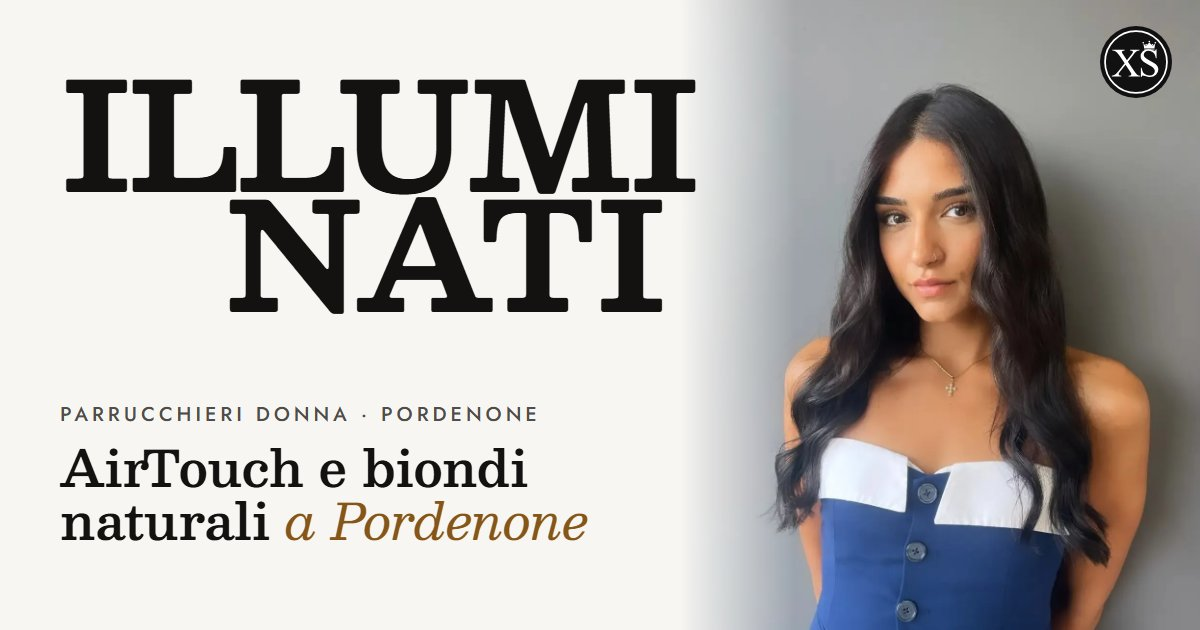
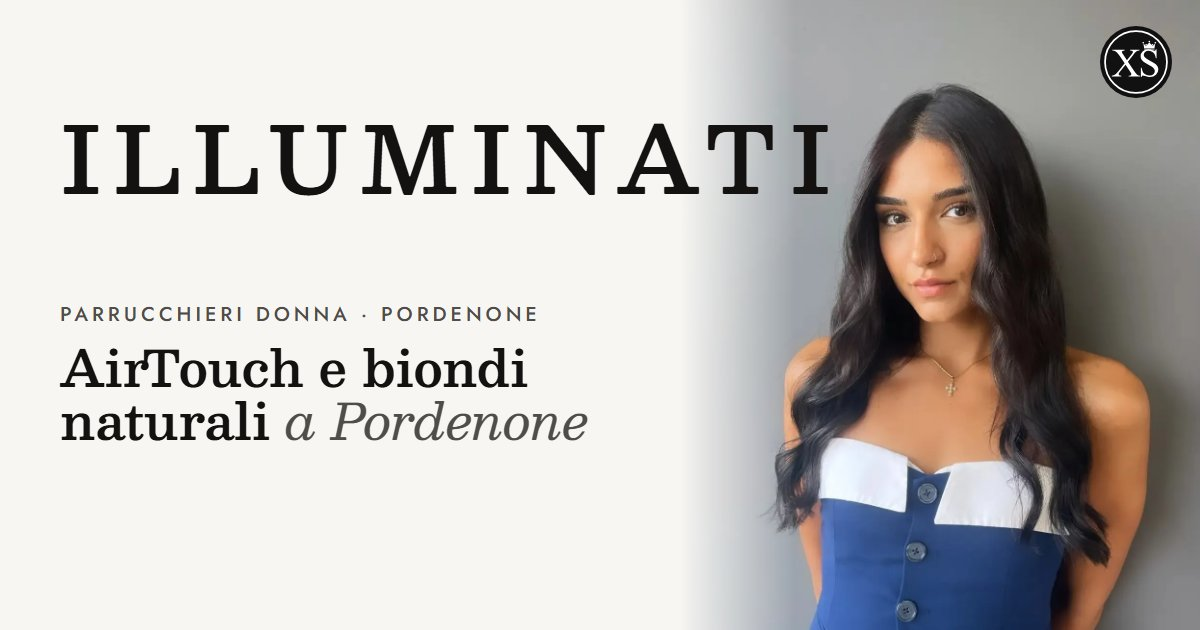
Bianco e nero, nome intero, menu chiaro, insegna ricostruita in rilievo, telefono senza tagli

Changed region(s): [[0.0308, 0.1206, 0.7092, 0.5127], [0.0308, 0.5429, 0.4933, 0.8746]]

diff --git a/css/blocks.css b/css/blocks.css
@@ -24,34 +24,34 @@
 .menu-btn:active{transform:scale(.97)}
 
 /* ---------- menu a tutto schermo ---------- */
-.menu{position:fixed;inset:0;z-index:70;background:var(--ink);color:var(--on-dark);display:grid;grid-template-rows:1fr auto;padding:96px var(--gutter) calc(24px + env(safe-area-inset-bottom));
+.menu{position:fixed;inset:0;z-index:70;background:var(--paper);color:var(--ink);display:grid;grid-template-rows:1fr auto;padding:96px var(--gutter) calc(24px + env(safe-area-inset-bottom));
   clip-path:circle(0 at calc(100% - 44px) 36px);visibility:hidden;transition:clip-path .7s var(--ease-spring),visibility 0s .7s}
 .menu.is-open{clip-path:circle(150% at calc(100% - 44px) 36px);visibility:visible;transition:clip-path .8s var(--ease-spring),visibility 0s}
 .menu nav ol{display:grid;gap:4px;align-content:center;height:100%;counter-reset:m}
 .menu nav a{display:grid;grid-template-columns:auto 1fr;align-items:baseline;gap:6px 18px;padding-block:10px;text-decoration:none;opacity:0;transform:translateY(24px);transition:opacity .5s var(--ease),transform .7s var(--ease-spring)}
 .menu.is-open nav a{opacity:1;transform:none;transition-delay:calc(.15s + var(--i) * 70ms)}
-.menu nav a::before{counter-increment:m;content:"0" counter(m);font:500 .8rem/1 var(--font-body);letter-spacing:.14em;color:var(--gold);align-self:center}
-.menu nav strong{font:600 clamp(2.6rem,12vw,5.5rem)/1 var(--font-display);letter-spacing:-.02em;transition:color .3s var(--ease),transform .5s var(--ease-spring)}
-.menu nav small{grid-column:2;font:italic 400 1rem/1.2 var(--font-display);color:var(--on-dark-2)}
-.menu nav a[aria-current="page"] strong{color:var(--gold)}
-@media (hover:hover){ .menu nav a:hover strong{color:var(--gold);transform:translateX(8px)} }
-.menu__foot{display:grid;gap:16px;border-top:1px solid hsl(40 25% 94% / .15);padding-top:20px;opacity:0;transition:opacity .5s var(--ease) .1s}
+.menu nav a::before{counter-increment:m;content:"0" counter(m);font:500 .8rem/1 var(--font-body);letter-spacing:.14em;color:var(--ink-2);align-self:center}
+.menu nav strong{font:600 clamp(2.4rem,11vw,5.5rem)/1 var(--font-display);letter-spacing:.06em;text-transform:uppercase;transition:color .3s var(--ease),transform .5s var(--ease-spring)}
+.menu nav small{grid-column:2;font:italic 400 1rem/1.2 var(--font-display);color:var(--ink-2)}
+.menu nav a[aria-current="page"] strong{text-decoration:underline;text-decoration-thickness:2px;text-underline-offset:.12em}
+@media (hover:hover){ .menu nav a:hover strong{transform:translateX(8px);font-style:italic;font-weight:400} }
+.menu__foot{display:grid;gap:16px;border-top:1px solid var(--line);padding-top:20px;opacity:0;transition:opacity .5s var(--ease) .1s}
 .menu.is-open .menu__foot{opacity:1;transition-delay:.45s}
-.menu__foot p{color:var(--on-dark-2);font-size:.95rem}
+.menu__foot p{color:var(--ink-2);font-size:.95rem}
 .menu__foot .row{display:flex;flex-wrap:wrap;gap:10px}
 body.menu-open{overflow:hidden}
 
 /* ---------- copertina (home) ---------- */
 .cover{position:relative;padding-top:0}
-.cover__photo{position:relative;height:56svh;min-height:380px;max-height:820px}
+.cover__photo{position:relative;aspect-ratio:4/5;max-height:62svh;width:100%}
 .cover__photo .lit{position:absolute;inset:0}
 .cover__photo img{object-position:50% 18%}
 .cover__photo::after{content:"";position:absolute;inset:0;pointer-events:none;background:linear-gradient(to bottom,hsl(30 8% 7% / .18),transparent 22%,transparent 58%,var(--paper) 99%)}
 .cover__note{position:absolute;z-index:2;right:14px;top:96px;writing-mode:vertical-rl;transform:rotate(180deg);font:italic 400 .95rem/1 var(--font-display);color:var(--paper);text-shadow:0 1px 12px hsl(30 8% 7% / .55)}
-.cover__body{position:relative;z-index:2;margin-top:-0.95em;font-size:clamp(3.6rem,18.6vw,13rem)}
-.mast{font:700 1em/.8 var(--font-display);letter-spacing:-.035em;text-transform:uppercase;margin-left:-.04em}
-.mast > span{display:block;white-space:nowrap}
-.mast > span:last-child{padding-left:1.1em}
+.cover__body{position:relative;z-index:2;margin-top:-.45em;font-size:40px}
+.mast{font:600 1em/.9 var(--font-display);letter-spacing:.12em;text-transform:uppercase;white-space:nowrap;margin-right:-.12em}
+.mast > span{display:inline}
+
 .cover__text{font-size:1rem;display:grid;gap:14px;padding-top:16px}
 @media (max-width:899px) and (max-height:860px){ .cover__text .lead{display:none} }
 .cover__text h1{max-width:20ch}
@@ -61,9 +61,9 @@ body.menu-open{overflow:hidden}
 .trust u{text-decoration:none;border-bottom:1px solid var(--line)}
 @media (min-width:900px){
   .cover{display:grid;grid-template-columns:1fr 46%;min-height:100svh;align-items:end}
-  .cover__photo{grid-column:2;grid-row:1;height:100svh;max-height:none}
+  .cover__photo{grid-column:2;grid-row:1;height:100svh;max-height:none;aspect-ratio:auto}
   .cover__photo::after{background:linear-gradient(to right,var(--paper) 0%,transparent 18%)}
-  .cover__body{grid-column:1 / -1;grid-row:1;align-self:end;margin:0;padding-bottom:var(--s10);font-size:clamp(6rem,12.5vw,13rem)}
+  .cover__body{grid-column:1 / -1;grid-row:1;align-self:center;margin:0;padding-top:72px}
   .cover__text{max-width:520px}
   .cover__note{right:auto;left:calc(54% + 18px)}
 }
@@ -146,7 +146,7 @@ body.menu-open{overflow:hidden}
 .gallery li{transition:opacity .4s var(--ease),transform .5s var(--ease-spring)}
 .gallery li.is-out{display:none}
 .gallery li:nth-child(4n+1){grid-column:1 / -1}
-.gallery li:nth-child(4n+1) .lit{aspect-ratio:4/5}
+.gallery li:nth-child(4n+1) .lit{aspect-ratio:3/4}
 .gallery .lit{aspect-ratio:3/4}
 @media (min-width:900px){
   .gallery{grid-template-columns:repeat(3,1fr);gap:28px 20px}
@@ -161,7 +161,7 @@ body.menu-open{overflow:hidden}
 .compare .t{position:absolute;bottom:12px;z-index:2;padding:6px 10px;border-radius:999px;background:hsl(40 22% 96% / .85);font:500 .7rem/1 var(--font-body);letter-spacing:.16em;text-transform:uppercase;pointer-events:none}
 .compare .t.b{left:12px}.compare .t.a{right:12px}
 .compare .handle{position:absolute;top:0;bottom:0;left:var(--pos,50%);width:48px;margin-left:-24px;border:0;background:transparent;display:grid;place-items:center;cursor:ew-resize;touch-action:none}
-.compare .handle::before{content:"";position:absolute;top:0;bottom:0;left:50%;width:2px;margin-left:-1px;background:hsl(42 100% 88%);box-shadow:0 0 22px 6px hsl(42 100% 70% / .6)}
+.compare .handle::before{content:"";position:absolute;top:0;bottom:0;left:50%;width:2px;margin-left:-1px;background:#fff;box-shadow:0 0 22px 6px hsl(0 0% 100% / .7)}
 .compare .handle span{position:relative;width:44px;height:44px;border-radius:50%;background:var(--paper);display:grid;place-items:center;box-shadow:0 6px 18px hsl(30 8% 7% / .35)}
 .compare .handle svg{width:22px;height:22px}
 .compare .handle:focus-visible{outline:none}.compare .handle:focus-visible span{outline:3px solid var(--focus);outline-offset:3px}
@@ -206,7 +206,7 @@ body.menu-open{overflow:hidden}
 .field input,.field select,.field textarea{width:100%;min-height:52px;padding:12px 14px;border:0;border-bottom:1.5px solid var(--ink-2);border-radius:0;background:transparent;transition:border-color .25s var(--ease),background-color .25s var(--ease)}
 .field textarea{min-height:96px;resize:vertical}
 .field select{appearance:none;-webkit-appearance:none;background-image:linear-gradient(45deg,transparent 50%,var(--ink) 50%),linear-gradient(135deg,var(--ink) 50%,transparent 50%);background-position:calc(100% - 18px) 55%,calc(100% - 12px) 55%;background-size:6px 6px;background-repeat:no-repeat}
-.field input:focus-visible,.field select:focus-visible,.field textarea:focus-visible{outline:none;border-bottom-color:var(--focus);background:hsl(40 95% 50% / .06)}
+.field input:focus-visible,.field select:focus-visible,.field textarea:focus-visible{outline:none;border-bottom-color:var(--focus);background:hsl(30 8% 7% / .04)}
 .field .err{color:var(--error);font-size:.9rem}
 .field [aria-invalid="true"]{border-bottom-color:var(--error)}
 .form .note{font-size:.88rem;color:var(--ink-2)}
@@ -216,7 +216,7 @@ body.menu-open{overflow:hidden}
 /* ---------- piede ---------- */
 .foot{background:var(--ink);color:var(--on-dark-2);padding-block:var(--s10) var(--s6);font-size:.95rem}
 .foot .wrap{display:grid;gap:var(--s4)}
-.foot .big{font:700 clamp(3rem,15vw,9rem)/.85 var(--font-display);letter-spacing:-.03em;text-transform:uppercase;color:var(--on-dark)}
+.foot .big{font:600 40px/1 var(--font-display);letter-spacing:.12em;text-transform:uppercase;color:var(--on-dark);white-space:nowrap;margin-right:-.12em}
 .foot address{font-style:normal;line-height:1.8}
 .foot a{text-decoration:none}
 @media (hover:hover){ .foot a:hover{color:var(--on-dark)} }
@@ -241,7 +241,7 @@ body.menu-open .bar{display:none}
 .cover__photo{overflow:clip}
 .cover__photo .tilt{position:absolute;inset:0;transform:perspective(1100px) rotateX(var(--rx,0deg)) rotateY(var(--ry,0deg)) translateZ(var(--tz,0px)) scale(var(--sc,1));transform-origin:50% 100%}
 .cover__photo .lit{position:absolute;inset:0}
-.cover__photo .sheen{position:absolute;inset:0;z-index:2;pointer-events:none;mix-blend-mode:soft-light;opacity:var(--so,0);background:radial-gradient(circle at var(--mx,50%) var(--my,30%),hsl(42 100% 80% / .9),transparent 45%);transition:opacity .4s var(--ease)}
+.cover__photo .sheen{position:absolute;inset:0;z-index:2;pointer-events:none;mix-blend-mode:soft-light;opacity:var(--so,0);background:radial-gradient(circle at var(--mx,50%) var(--my,30%),hsl(0 0% 100% / .6),transparent 45%);transition:opacity .4s var(--ease)}
 
 .mast .ch{display:inline-block;transform-origin:50% 100%}
 .js .mast .ch{opacity:0;transform:perspective(600px) rotateX(-92deg) translateY(.08em)}
@@ -257,6 +257,21 @@ body.menu-open .bar{display:none}
 @media (min-width:900px){ .cover__body{max-width:none;padding-inline:max(var(--gutter),calc((100vw - var(--max)) / 2 + var(--gutter)))} }
 
 .review-cta{display:grid;gap:18px;align-items:center;margin-top:var(--s6);padding-top:var(--s4);border-top:1px solid hsl(40 25% 94% / .2)}
-.big5{font:700 clamp(5rem,26vw,9rem)/.8 var(--font-display);letter-spacing:-.04em;color:transparent;-webkit-text-stroke:1.5px var(--gold);background:linear-gradient(100deg,transparent 40%,hsl(42 100% 80% / .9) 50%,transparent 60%) 120% 0/250% 100% no-repeat;-webkit-background-clip:text;background-clip:text;animation:shine 4s var(--ease) infinite 1s}
+.big5-old{font:700 clamp(5rem,26vw,9rem)/.8 var(--font-display);letter-spacing:-.04em;color:transparent;-webkit-text-stroke:1.5px var(--gold);background:linear-gradient(100deg,transparent 40%,hsl(0 0% 100% / .6) 50%,transparent 60%) 120% 0/250% 100% no-repeat;-webkit-background-clip:text;background-clip:text;animation:shine 4s var(--ease) infinite 1s}
 @keyframes shine{0%{background-position:120% 0}60%,100%{background-position:-60% 0}}
 @media (min-width:900px){ .review-cta{grid-template-columns:auto 1fr;gap:var(--s6)} }
+
+.review-cta .score-big{display:flex;align-items:baseline;gap:14px;font:600 clamp(3rem,14vw,5rem)/1 var(--font-display);letter-spacing:-.02em}
+.review-cta .score-big small{font:500 .8rem/1.3 var(--font-body);letter-spacing:.16em;text-transform:uppercase;color:var(--on-dark-2)}
+.review-cta .score-big .stars{font-size:1.1rem;color:#fff;letter-spacing:4px;display:block}
+
+/* insegna ricostruita: pannello nero, lettere in rilievo, luce che passa */
+.insegna{position:relative;overflow:hidden;display:flex;align-items:center;justify-content:center;gap:4%;padding:7% 6%;margin-bottom:var(--s6);
+  background:linear-gradient(180deg,hsl(0 0% 13%),hsl(0 0% 8%) 60%,hsl(0 0% 6%));border-radius:3px;
+  box-shadow:inset 0 1px 0 hsl(0 0% 100% / .08),0 30px 50px -30px hsl(0 0% 0% / .7)}
+.insegna::before{content:"";position:absolute;inset:0;background:repeating-linear-gradient(90deg,transparent 0 49.6%,hsl(0 0% 100% / .03) 49.6% 50%);pointer-events:none}
+.insegna__t{font:600 40px/1 var(--font-display);letter-spacing:.2em;margin-right:-.2em;text-transform:uppercase;color:hsl(0 0% 97%);white-space:nowrap;
+  text-shadow:1px 1px 0 hsl(0 0% 80%),2px 2px 0 hsl(0 0% 70%),3px 3px 0 hsl(0 0% 58%),4px 5px 2px hsl(0 0% 0% / .5),8px 12px 16px hsl(0 0% 0% / .55)}
+.insegna img{width:clamp(44px,12vw,110px);height:auto;flex:none;filter:drop-shadow(3px 4px 3px hsl(0 0% 0% / .6))}
+.insegna::after{content:"";position:absolute;top:-20%;bottom:-20%;left:-30%;width:22%;transform:skewX(-18deg);background:linear-gradient(90deg,transparent,hsl(0 0% 100% / .14),transparent);animation:sweep 6s var(--ease) infinite 1.5s;pointer-events:none}
+@keyframes sweep{0%{left:-30%}35%,100%{left:120%}}

diff --git a/index.html b/index.html
@@ -55,7 +55,7 @@
     <p data-status>Martedì–sabato 9:00–19:00</p>
     <p>Viale Venezia, 48 · Pordenone</p>
     <div class="row">
-      <a class="btn btn--light" href="https://wa.me/393278147742?text=Ciao!%20Vorrei%20prenotare%20un%20appuntamento%20da%20Illuminati%20XS." target="_blank" rel="noopener"><svg viewBox="0 0 24 24" aria-hidden="true" fill="currentColor"><path d="M12 2a10 10 0 0 0-8.6 15.1L2 22l5-1.3A10 10 0 1 0 12 2Zm0 18.2a8.2 8.2 0 0 1-4.2-1.2l-.3-.2-3 .8.8-2.9-.2-.3A8.2 8.2 0 1 1 12 20.2Zm4.5-6.1c-.2-.1-1.5-.7-1.7-.8-.2-.1-.4-.1-.6.1l-.8 1c-.1.2-.3.2-.5.1a6.7 6.7 0 0 1-3.3-2.9c-.3-.4.3-.4.7-1.3.1-.2 0-.3 0-.4l-.8-1.8c-.2-.5-.4-.4-.6-.4h-.5a1 1 0 0 0-.7.3 3 3 0 0 0-.9 2.2 5.2 5.2 0 0 0 1.1 2.7 11.8 11.8 0 0 0 4.5 4c1.7.7 2.3.8 3.2.6.5-.1 1.5-.6 1.7-1.2.2-.6.2-1.1.2-1.2-.1-.1-.3-.2-.5-.3Z"/></svg>Prenota su WhatsApp</a>
+      <a class="btn" href="https://wa.me/393278147742?text=Ciao!%20Vorrei%20prenotare%20un%20appuntamento%20da%20Illuminati%20XS." target="_blank" rel="noopener"><svg viewBox="0 0 24 24" aria-hidden="true" fill="currentColor"><path d="M12 2a10 10 0 0 0-8.6 15.1L2 22l5-1.3A10 10 0 1 0 12 2Zm0 18.2a8.2 8.2 0 0 1-4.2-1.2l-.3-.2-3 .8.8-2.9-.2-.3A8.2 8.2 0 1 1 12 20.2Zm4.5-6.1c-.2-.1-1.5-.7-1.7-.8-.2-.1-.4-.1-.6.1l-.8 1c-.1.2-.3.2-.5.1a6.7 6.7 0 0 1-3.3-2.9c-.3-.4.3-.4.7-1.3.1-.2 0-.3 0-.4l-.8-1.8c-.2-.5-.4-.4-.6-.4h-.5a1 1 0 0 0-.7.3 3 3 0 0 0-.9 2.2 5.2 5.2 0 0 0 1.1 2.7 11.8 11.8 0 0 0 4.5 4c1.7.7 2.3.8 3.2.6.5-.1 1.5-.6 1.7-1.2.2-.6.2-1.1.2-1.2-.1-.1-.3-.2-.5-.3Z"/></svg>Prenota su WhatsApp</a>
       <a class="btn btn--line" href="tel:+393278147742"><svg viewBox="0 0 24 24" aria-hidden="true" fill="none" stroke="currentColor" stroke-width="1.6"><path d="M5 4h4l2 5-2.5 1.5a11 11 0 0 0 5 5L15 13l5 2v4a2 2 0 0 1-2 2A16 16 0 0 1 3 6a2 2 0 0 1 2-2"/></svg>327 814 7742</a>
     </div>
   </div>
@@ -137,7 +137,7 @@
     <div class="wrap">
       <div class="head">
         <p class="kicker rise">Le clienti</p>
-        <h2 class="rise" id="h-voices">«Pensavo servisse <em style="color:var(--gold)">un miracolo»</em></h2>
+        <h2 class="rise" id="h-voices">«Pensavo servisse <em style="color:var(--on-dark-2)">un miracolo»</em></h2>
         <p class="score rise"><span class="stars" aria-hidden="true">★★★★★</span>5,0 su Google · 10 recensioni</p>
       </div>
       <div data-carousel role="region" aria-roledescription="carosello" aria-label="Recensioni Google">
@@ -160,11 +160,11 @@
       </div>
       </div>
       <div class="review-cta rise">
-        <p class="big5" aria-hidden="true">5,0</p>
+        <p class="score-big"><span>5,0</span><small><span class="stars" aria-hidden="true">★★★★★</span>su Google<br>10 recensioni</small></p>
         <div>
           <p class="lead">Sei già stata da noi? La tua recensione aiuta chi cerca il suo colore a Pordenone.</p>
           <div class="actions" style="margin-top:16px">
-            <a class="btn btn--gold" href="https://www.google.com/maps/place//data=!4m3!3m2!1s0x47797b39ec83967b:0x76531a4e19f5794d!12e1" target="_blank" rel="noopener"><span class="stars" aria-hidden="true">★</span>Scrivi una recensione su Google</a>
+            <a class="btn btn--light" href="https://www.google.com/maps/place//data=!4m3!3m2!1s0x47797b39ec83967b:0x76531a4e19f5794d!12e1" target="_blank" rel="noopener">Scrivi una recensione su Google</a>
             <a class="link" href="https://www.google.com/maps/search/?api=1&amp;query=Illuminati+XS+Parrucchieri+Viale+Venezia+48+Pordenone" target="_blank" rel="noopener"><span>Leggi tutte le recensioni</span><svg viewBox="0 0 24 24" fill="none" stroke="currentColor" stroke-width="1.6" aria-hidden="true"><path d="M5 12h14M13 6l6 6-6 6"/></svg></a>
           </div>
         </div>
@@ -174,7 +174,7 @@
 
   <section class="sec--lg visit" aria-labelledby="h-visit">
     <div class="wrap">
-      <img class="sign rise" src="img/insegna-1200.webp" width="1200" height="226" loading="lazy" decoding="async" alt="L'insegna Illuminati XS sopra la vetrina in viale Venezia 48">
+      <div class="insegna rise" role="img" aria-label="L'insegna Illuminati XS di viale Venezia 48"><span class="insegna__t">Illuminati</span><img src="img/logo-xs-linea-bianca.svg" width="80" height="80" alt=""></div>
       <div class="grid">
         <div style="display:grid;gap:18px">
           <p class="kicker rise">Vieni in salone</p>

diff --git a/css/base.css b/css/base.css
@@ -15,9 +15,9 @@
   --wall:hsl(214 9% 20%);       /* antracite delle pareti */
   --on-dark:hsl(40 25% 94%);
   --on-dark-2:hsl(40 8% 74%);
-  --gold:hsl(40 78% 60%);       /* la luce: fascio, stelle su scuro */
-  --gold-ink:hsl(34 70% 31%);   /* oro leggibile su carta (6:1) */
-  --focus:hsl(40 95% 50%);
+  --gold:hsl(0 0% 100%);        /* la luce: bianca, come il logo */
+  --gold-ink:hsl(30 5% 30%);    /* accento su carta = grigio inchiostro */
+  --focus:hsl(30 8% 7%);
   --error:hsl(4 70% 42%);
   --success:hsl(150 45% 28%);
 
@@ -67,7 +67,7 @@ ul,ol{margin:0;padding:0;list-style:none}
 .btn{display:inline-flex;align-items:center;justify-content:center;gap:10px;min-height:52px;padding:14px 26px;border-radius:999px;border:0;cursor:pointer;text-decoration:none;font-weight:500;letter-spacing:.01em;background:var(--ink);color:var(--paper);transition:transform .25s var(--ease),background-color .25s var(--ease),box-shadow .35s var(--ease);-webkit-tap-highlight-color:transparent;position:relative;overflow:hidden;isolation:isolate}
 .btn svg{width:20px;height:20px;flex:none}
 .btn::after{ /* la luce che passa sul bottone */
-  content:"";position:absolute;inset:-20% auto -20% -40%;width:30%;transform:skewX(-18deg) translateX(-120%);background:linear-gradient(90deg,transparent,hsl(40 90% 75% / .55),transparent);z-index:-1;transition:transform .7s var(--ease-spring)}
+  content:"";position:absolute;inset:-20% auto -20% -40%;width:30%;transform:skewX(-18deg) translateX(-120%);background:linear-gradient(90deg,transparent,hsl(0 0% 100% / .45),transparent);z-index:-1;transition:transform .7s var(--ease-spring)}
 @media (hover:hover){ .btn:hover{box-shadow:0 14px 30px -14px hsl(30 8% 7% / .6)} .btn:hover::after{transform:skewX(-18deg) translateX(520%)} }
 .btn:active{transform:translateY(1px) scale(.99)}
 .btn--light{background:var(--paper);color:var(--ink)}
@@ -82,15 +82,15 @@ ul,ol{margin:0;padding:0;list-style:none}
 @media (hover:hover){ .link:hover svg{transform:translateX(4px)} .link:hover span{background-size:30% 1px} }
 .dark .link{color:var(--on-dark)}
 
-.stars{color:var(--gold-ink);letter-spacing:2px}
+.stars{color:var(--ink);letter-spacing:2px}
 .dark .stars{color:var(--gold)}
 
 /* sezioni: salti 48 / 80 / 128 */
 .sec{padding-block:var(--s10)}
 .sec--lg{padding-block:var(--s16)}
 @media (max-width:899px){ .sec--lg{padding-block:var(--s10)} }
-.dark{background:radial-gradient(120% 80% at 0% 0%,hsl(36 30% 14%),transparent 60%),var(--ink);color:var(--on-dark)}
-.dark :focus-visible{outline-color:var(--gold)}
+.dark{background:var(--ink);color:var(--on-dark)}
+.dark :focus-visible{outline-color:#fff}
 
 /* ingressi */
 .rise{opacity:0;transform:translateY(22px);transition:opacity .7s var(--ease-spring),transform .7s var(--ease-spring);transition-delay:calc(var(--i,0) * 70ms)}
@@ -106,7 +106,7 @@ ul,ol{margin:0;padding:0;list-style:none}
 .lit .bw{filter:grayscale(1) contrast(1.06) brightness(.97)}
 .lit .col{position:absolute;inset:0;clip-path:polygon(0 0,calc(var(--x) + 22%) 0,var(--x) 100%,0 100%)}
 .lit .beam{position:absolute;top:-10%;bottom:-10%;left:calc(var(--x) + 11% - 40px);width:80px;pointer-events:none;
-  background:linear-gradient(90deg,transparent,hsl(42 100% 82% / .75) 45%,hsl(42 100% 92% / .9) 50%,hsl(42 100% 82% / .75) 55%,transparent);
+  background:linear-gradient(90deg,transparent,hsl(0 0% 100% / .7) 45%,hsl(0 0% 100% / .95) 50%,hsl(0 0% 100% / .7) 55%,transparent);
   transform:skewX(-12.4deg);mix-blend-mode:screen;filter:blur(5px);opacity:0;transition:opacity .4s var(--ease)}
 .lit.is-lighting .beam{opacity:1}
 .lit.is-lit{--x:130%}

diff --git a/lavori.html b/lavori.html
@@ -54,7 +54,7 @@
     <p data-status>Martedì–sabato 9:00–19:00</p>
     <p>Viale Venezia, 48 · Pordenone</p>
     <div class="row">
-      <a class="btn btn--light" href="https://wa.me/393278147742?text=Ciao!%20Vorrei%20prenotare%20un%20appuntamento%20da%20Illuminati%20XS." target="_blank" rel="noopener"><svg viewBox="0 0 24 24" aria-hidden="true" fill="currentColor"><path d="M12 2a10 10 0 0 0-8.6 15.1L2 22l5-1.3A10 10 0 1 0 12 2Zm0 18.2a8.2 8.2 0 0 1-4.2-1.2l-.3-.2-3 .8.8-2.9-.2-.3A8.2 8.2 0 1 1 12 20.2Zm4.5-6.1c-.2-.1-1.5-.7-1.7-.8-.2-.1-.4-.1-.6.1l-.8 1c-.1.2-.3.2-.5.1a6.7 6.7 0 0 1-3.3-2.9c-.3-.4.3-.4.7-1.3.1-.2 0-.3 0-.4l-.8-1.8c-.2-.5-.4-.4-.6-.4h-.5a1 1 0 0 0-.7.3 3 3 0 0 0-.9 2.2 5.2 5.2 0 0 0 1.1 2.7 11.8 11.8 0 0 0 4.5 4c1.7.7 2.3.8 3.2.6.5-.1 1.5-.6 1.7-1.2.2-.6.2-1.1.2-1.2-.1-.1-.3-.2-.5-.3Z"/></svg>Prenota su WhatsApp</a>
+      <a class="btn" href="https://wa.me/393278147742?text=Ciao!%20Vorrei%20prenotare%20un%20appuntamento%20da%20Illuminati%20XS." target="_blank" rel="noopener"><svg viewBox="0 0 24 24" aria-hidden="true" fill="currentColor"><path d="M12 2a10 10 0 0 0-8.6 15.1L2 22l5-1.3A10 10 0 1 0 12 2Zm0 18.2a8.2 8.2 0 0 1-4.2-1.2l-.3-.2-3 .8.8-2.9-.2-.3A8.2 8.2 0 1 1 12 20.2Zm4.5-6.1c-.2-.1-1.5-.7-1.7-.8-.2-.1-.4-.1-.6.1l-.8 1c-.1.2-.3.2-.5.1a6.7 6.7 0 0 1-3.3-2.9c-.3-.4.3-.4.7-1.3.1-.2 0-.3 0-.4l-.8-1.8c-.2-.5-.4-.4-.6-.4h-.5a1 1 0 0 0-.7.3 3 3 0 0 0-.9 2.2 5.2 5.2 0 0 0 1.1 2.7 11.8 11.8 0 0 0 4.5 4c1.7.7 2.3.8 3.2.6.5-.1 1.5-.6 1.7-1.2.2-.6.2-1.1.2-1.2-.1-.1-.3-.2-.5-.3Z"/></svg>Prenota su WhatsApp</a>
       <a class="btn btn--line" href="tel:+393278147742"><svg viewBox="0 0 24 24" aria-hidden="true" fill="none" stroke="currentColor" stroke-width="1.6"><path d="M5 4h4l2 5-2.5 1.5a11 11 0 0 0 5 5L15 13l5 2v4a2 2 0 0 1-2 2A16 16 0 0 1 3 6a2 2 0 0 1 2-2"/></svg>327 814 7742</a>
     </div>
   </div>
@@ -96,7 +96,7 @@
     <div class="wrap compare-wrap">
       <div style="display:grid;gap:18px">
         <p class="kicker">Prima e dopo</p>
-        <h2 id="h-pd">Trascina <em style="color:var(--gold)">la linea di luce</em></h2>
+        <h2 id="h-pd">Trascina <em style="color:var(--on-dark-2)">la linea di luce</em></h2>
         <p class="lead">Dalla ricrescita scura alle baby highlights platino: lo stesso lavoro, prima e dopo il salone.</p>
         <div><a class="btn btn--light" href="https://wa.me/393278147742?text=Ciao!%20Vi%20mando%20una%20foto%20del%20colore%20che%20vorrei." target="_blank" rel="noopener"><svg viewBox="0 0 24 24" aria-hidden="true" fill="currentColor"><path d="M12 2a10 10 0 0 0-8.6 15.1L2 22l5-1.3A10 10 0 1 0 12 2Zm0 18.2a8.2 8.2 0 0 1-4.2-1.2l-.3-.2-3 .8.8-2.9-.2-.3A8.2 8.2 0 1 1 12 20.2Zm4.5-6.1c-.2-.1-1.5-.7-1.7-.8-.2-.1-.4-.1-.6.1l-.8 1c-.1.2-.3.2-.5.1a6.7 6.7 0 0 1-3.3-2.9c-.3-.4.3-.4.7-1.3.1-.2 0-.3 0-.4l-.8-1.8c-.2-.5-.4-.4-.6-.4h-.5a1 1 0 0 0-.7.3 3 3 0 0 0-.9 2.2 5.2 5.2 0 0 0 1.1 2.7 11.8 11.8 0 0 0 4.5 4c1.7.7 2.3.8 3.2.6.5-.1 1.5-.6 1.7-1.2.2-.6.2-1.1.2-1.2-.1-.1-.3-.2-.5-.3Z"/></svg>Mandaci la foto dei tuoi capelli</a></div>
       </div>

diff --git a/servizi.html b/servizi.html
@@ -55,7 +55,7 @@
     <p data-status>Martedì–sabato 9:00–19:00</p>
     <p>Viale Venezia, 48 · Pordenone</p>
     <div class="row">
-      <a class="btn btn--light" href="https://wa.me/393278147742?text=Ciao!%20Vorrei%20prenotare%20un%20appuntamento%20da%20Illuminati%20XS." target="_blank" rel="noopener"><svg viewBox="0 0 24 24" aria-hidden="true" fill="currentColor"><path d="M12 2a10 10 0 0 0-8.6 15.1L2 22l5-1.3A10 10 0 1 0 12 2Zm0 18.2a8.2 8.2 0 0 1-4.2-1.2l-.3-.2-3 .8.8-2.9-.2-.3A8.2 8.2 0 1 1 12 20.2Zm4.5-6.1c-.2-.1-1.5-.7-1.7-.8-.2-.1-.4-.1-.6.1l-.8 1c-.1.2-.3.2-.5.1a6.7 6.7 0 0 1-3.3-2.9c-.3-.4.3-.4.7-1.3.1-.2 0-.3 0-.4l-.8-1.8c-.2-.5-.4-.4-.6-.4h-.5a1 1 0 0 0-.7.3 3 3 0 0 0-.9 2.2 5.2 5.2 0 0 0 1.1 2.7 11.8 11.8 0 0 0 4.5 4c1.7.7 2.3.8 3.2.6.5-.1 1.5-.6 1.7-1.2.2-.6.2-1.1.2-1.2-.1-.1-.3-.2-.5-.3Z"/></svg>Prenota su WhatsApp</a>
+      <a class="btn" href="https://wa.me/393278147742?text=Ciao!%20Vorrei%20prenotare%20un%20appuntamento%20da%20Illuminati%20XS." target="_blank" rel="noopener"><svg viewBox="0 0 24 24" aria-hidden="true" fill="currentColor"><path d="M12 2a10 10 0 0 0-8.6 15.1L2 22l5-1.3A10 10 0 1 0 12 2Zm0 18.2a8.2 8.2 0 0 1-4.2-1.2l-.3-.2-3 .8.8-2.9-.2-.3A8.2 8.2 0 1 1 12 20.2Zm4.5-6.1c-.2-.1-1.5-.7-1.7-.8-.2-.1-.4-.1-.6.1l-.8 1c-.1.2-.3.2-.5.1a6.7 6.7 0 0 1-3.3-2.9c-.3-.4.3-.4.7-1.3.1-.2 0-.3 0-.4l-.8-1.8c-.2-.5-.4-.4-.6-.4h-.5a1 1 0 0 0-.7.3 3 3 0 0 0-.9 2.2 5.2 5.2 0 0 0 1.1 2.7 11.8 11.8 0 0 0 4.5 4c1.7.7 2.3.8 3.2.6.5-.1 1.5-.6 1.7-1.2.2-.6.2-1.1.2-1.2-.1-.1-.3-.2-.5-.3Z"/></svg>Prenota su WhatsApp</a>
       <a class="btn btn--line" href="tel:+393278147742"><svg viewBox="0 0 24 24" aria-hidden="true" fill="none" stroke="currentColor" stroke-width="1.6"><path d="M5 4h4l2 5-2.5 1.5a11 11 0 0 0 5 5L15 13l5 2v4a2 2 0 0 1-2 2A16 16 0 0 1 3 6a2 2 0 0 1 2-2"/></svg>327 814 7742</a>
     </div>
   </div>
@@ -107,7 +107,7 @@
     <div class="wrap" style="display:grid;gap:28px">
       <div style="display:grid;gap:14px">
         <p class="kicker">Domande frequenti</p>
-        <h2 id="h-faq">Domande <em style="color:var(--gold)">sull'AirTouch</em></h2>
+        <h2 id="h-faq">Domande <em style="color:var(--on-dark-2)">sull'AirTouch</em></h2>
       </div>
       <div class="faq">
         <details><summary>Che differenza c'è tra AirTouch e balayage?</summary><p>Nel balayage le schiariture si sfumano a mano sulle ciocche. Nell'AirTouch prima si usa l'aria del phon per separare i capelli più sottili, e si schiariscono solo quelli: il passaggio dalla radice è ancora più morbido.</p></details>

diff --git a/404.html b/404.html
@@ -55,7 +55,7 @@
     <p data-status>Martedì–sabato 9:00–19:00</p>
     <p>Viale Venezia, 48 · Pordenone</p>
     <div class="row">
-      <a class="btn btn--light" href="https://wa.me/393278147742?text=Ciao!%20Vorrei%20prenotare%20un%20appuntamento%20da%20Illuminati%20XS." target="_blank" rel="noopener"><svg viewBox="0 0 24 24" aria-hidden="true" fill="currentColor"><path d="M12 2a10 10 0 0 0-8.6 15.1L2 22l5-1.3A10 10 0 1 0 12 2Zm0 18.2a8.2 8.2 0 0 1-4.2-1.2l-.3-.2-3 .8.8-2.9-.2-.3A8.2 8.2 0 1 1 12 20.2Zm4.5-6.1c-.2-.1-1.5-.7-1.7-.8-.2-.1-.4-.1-.6.1l-.8 1c-.1.2-.3.2-.5.1a6.7 6.7 0 0 1-3.3-2.9c-.3-.4.3-.4.7-1.3.1-.2 0-.3 0-.4l-.8-1.8c-.2-.5-.4-.4-.6-.4h-.5a1 1 0 0 0-.7.3 3 3 0 0 0-.9 2.2 5.2 5.2 0 0 0 1.1 2.7 11.8 11.8 0 0 0 4.5 4c1.7.7 2.3.8 3.2.6.5-.1 1.5-.6 1.7-1.2.2-.6.2-1.1.2-1.2-.1-.1-.3-.2-.5-.3Z"/></svg>Prenota su WhatsApp</a>
+      <a class="btn" href="https://wa.me/393278147742?text=Ciao!%20Vorrei%20prenotare%20un%20appuntamento%20da%20Illuminati%20XS." target="_blank" rel="noopener"><svg viewBox="0 0 24 24" aria-hidden="true" fill="currentColor"><path d="M12 2a10 10 0 0 0-8.6 15.1L2 22l5-1.3A10 10 0 1 0 12 2Zm0 18.2a8.2 8.2 0 0 1-4.2-1.2l-.3-.2-3 .8.8-2.9-.2-.3A8.2 8.2 0 1 1 12 20.2Zm4.5-6.1c-.2-.1-1.5-.7-1.7-.8-.2-.1-.4-.1-.6.1l-.8 1c-.1.2-.3.2-.5.1a6.7 6.7 0 0 1-3.3-2.9c-.3-.4.3-.4.7-1.3.1-.2 0-.3 0-.4l-.8-1.8c-.2-.5-.4-.4-.6-.4h-.5a1 1 0 0 0-.7.3 3 3 0 0 0-.9 2.2 5.2 5.2 0 0 0 1.1 2.7 11.8 11.8 0 0 0 4.5 4c1.7.7 2.3.8 3.2.6.5-.1 1.5-.6 1.7-1.2.2-.6.2-1.1.2-1.2-.1-.1-.3-.2-.5-.3Z"/></svg>Prenota su WhatsApp</a>
       <a class="btn btn--line" href="tel:+393278147742"><svg viewBox="0 0 24 24" aria-hidden="true" fill="none" stroke="currentColor" stroke-width="1.6"><path d="M5 4h4l2 5-2.5 1.5a11 11 0 0 0 5 5L15 13l5 2v4a2 2 0 0 1-2 2A16 16 0 0 1 3 6a2 2 0 0 1 2-2"/></svg>327 814 7742</a>
     </div>
   </div>

diff --git a/contatti.html b/contatti.html
@@ -54,7 +54,7 @@
     <p data-status>Martedì–sabato 9:00–19:00</p>
     <p>Viale Venezia, 48 · Pordenone</p>
     <div class="row">
-      <a class="btn btn--light" href="https://wa.me/393278147742?text=Ciao!%20Vorrei%20prenotare%20un%20appuntamento%20da%20Illuminati%20XS." target="_blank" rel="noopener"><svg viewBox="0 0 24 24" aria-hidden="true" fill="currentColor"><path d="M12 2a10 10 0 0 0-8.6 15.1L2 22l5-1.3A10 10 0 1 0 12 2Zm0 18.2a8.2 8.2 0 0 1-4.2-1.2l-.3-.2-3 .8.8-2.9-.2-.3A8.2 8.2 0 1 1 12 20.2Zm4.5-6.1c-.2-.1-1.5-.7-1.7-.8-.2-.1-.4-.1-.6.1l-.8 1c-.1.2-.3.2-.5.1a6.7 6.7 0 0 1-3.3-2.9c-.3-.4.3-.4.7-1.3.1-.2 0-.3 0-.4l-.8-1.8c-.2-.5-.4-.4-.6-.4h-.5a1 1 0 0 0-.7.3 3 3 0 0 0-.9 2.2 5.2 5.2 0 0 0 1.1 2.7 11.8 11.8 0 0 0 4.5 4c1.7.7 2.3.8 3.2.6.5-.1 1.5-.6 1.7-1.2.2-.6.2-1.1.2-1.2-.1-.1-.3-.2-.5-.3Z"/></svg>Prenota su WhatsApp</a>
+      <a class="btn" href="https://wa.me/393278147742?text=Ciao!%20Vorrei%20prenotare%20un%20appuntamento%20da%20Illuminati%20XS." target="_blank" rel="noopener"><svg viewBox="0 0 24 24" aria-hidden="true" fill="currentColor"><path d="M12 2a10 10 0 0 0-8.6 15.1L2 22l5-1.3A10 10 0 1 0 12 2Zm0 18.2a8.2 8.2 0 0 1-4.2-1.2l-.3-.2-3 .8.8-2.9-.2-.3A8.2 8.2 0 1 1 12 20.2Zm4.5-6.1c-.2-.1-1.5-.7-1.7-.8-.2-.1-.4-.1-.6.1l-.8 1c-.1.2-.3.2-.5.1a6.7 6.7 0 0 1-3.3-2.9c-.3-.4.3-.4.7-1.3.1-.2 0-.3 0-.4l-.8-1.8c-.2-.5-.4-.4-.6-.4h-.5a1 1 0 0 0-.7.3 3 3 0 0 0-.9 2.2 5.2 5.2 0 0 0 1.1 2.7 11.8 11.8 0 0 0 4.5 4c1.7.7 2.3.8 3.2.6.5-.1 1.5-.6 1.7-1.2.2-.6.2-1.1.2-1.2-.1-.1-.3-.2-.5-.3Z"/></svg>Prenota su WhatsApp</a>
       <a class="btn btn--line" href="tel:+393278147742"><svg viewBox="0 0 24 24" aria-hidden="true" fill="none" stroke="currentColor" stroke-width="1.6"><path d="M5 4h4l2 5-2.5 1.5a11 11 0 0 0 5 5L15 13l5 2v4a2 2 0 0 1-2 2A16 16 0 0 1 3 6a2 2 0 0 1 2-2"/></svg>327 814 7742</a>
     </div>
   </div>

diff --git a/privacy.html b/privacy.html
@@ -54,7 +54,7 @@
     <p data-status>Martedì–sabato 9:00–19:00</p>
     <p>Viale Venezia, 48 · Pordenone</p>
     <div class="row">
-      <a class="btn btn--light" href="https://wa.me/393278147742?text=Ciao!%20Vorrei%20prenotare%20un%20appuntamento%20da%20Illuminati%20XS." target="_blank" rel="noopener"><svg viewBox="0 0 24 24" aria-hidden="true" fill="currentColor"><path d="M12 2a10 10 0 0 0-8.6 15.1L2 22l5-1.3A10 10 0 1 0 12 2Zm0 18.2a8.2 8.2 0 0 1-4.2-1.2l-.3-.2-3 .8.8-2.9-.2-.3A8.2 8.2 0 1 1 12 20.2Zm4.5-6.1c-.2-.1-1.5-.7-1.7-.8-.2-.1-.4-.1-.6.1l-.8 1c-.1.2-.3.2-.5.1a6.7 6.7 0 0 1-3.3-2.9c-.3-.4.3-.4.7-1.3.1-.2 0-.3 0-.4l-.8-1.8c-.2-.5-.4-.4-.6-.4h-.5a1 1 0 0 0-.7.3 3 3 0 0 0-.9 2.2 5.2 5.2 0 0 0 1.1 2.7 11.8 11.8 0 0 0 4.5 4c1.7.7 2.3.8 3.2.6.5-.1 1.5-.6 1.7-1.2.2-.6.2-1.1.2-1.2-.1-.1-.3-.2-.5-.3Z"/></svg>Prenota su WhatsApp</a>
+      <a class="btn" href="https://wa.me/393278147742?text=Ciao!%20Vorrei%20prenotare%20un%20appuntamento%20da%20Illuminati%20XS." target="_blank" rel="noopener"><svg viewBox="0 0 24 24" aria-hidden="true" fill="currentColor"><path d="M12 2a10 10 0 0 0-8.6 15.1L2 22l5-1.3A10 10 0 1 0 12 2Zm0 18.2a8.2 8.2 0 0 1-4.2-1.2l-.3-.2-3 .8.8-2.9-.2-.3A8.2 8.2 0 1 1 12 20.2Zm4.5-6.1c-.2-.1-1.5-.7-1.7-.8-.2-.1-.4-.1-.6.1l-.8 1c-.1.2-.3.2-.5.1a6.7 6.7 0 0 1-3.3-2.9c-.3-.4.3-.4.7-1.3.1-.2 0-.3 0-.4l-.8-1.8c-.2-.5-.4-.4-.6-.4h-.5a1 1 0 0 0-.7.3 3 3 0 0 0-.9 2.2 5.2 5.2 0 0 0 1.1 2.7 11.8 11.8 0 0 0 4.5 4c1.7.7 2.3.8 3.2.6.5-.1 1.5-.6 1.7-1.2.2-.6.2-1.1.2-1.2-.1-.1-.3-.2-.5-.3Z"/></svg>Prenota su WhatsApp</a>
       <a class="btn btn--line" href="tel:+393278147742"><svg viewBox="0 0 24 24" aria-hidden="true" fill="none" stroke="currentColor" stroke-width="1.6"><path d="M5 4h4l2 5-2.5 1.5a11 11 0 0 0 5 5L15 13l5 2v4a2 2 0 0 1-2 2A16 16 0 0 1 3 6a2 2 0 0 1 2-2"/></svg>327 814 7742</a>
     </div>
   </div>

diff --git a/js/main.js b/js/main.js
@@ -69,6 +69,24 @@ if (menuBtn && menu) {
   });
 }
 
+/* ---------- il nome sempre intero: si adatta alla larghezza ---------- */
+function fitText(el, ratio) {
+  const box = el.parentElement;
+  const cs = getComputedStyle(box);
+  const avail = (box.clientWidth - parseFloat(cs.paddingLeft) - parseFloat(cs.paddingRight)) * ratio;
+  el.style.fontSize = '100px';
+  const w = el.scrollWidth || el.getBoundingClientRect().width;
+  el.style.fontSize = Math.max(28, Math.floor(100 * avail / w)) + 'px';
+}
+const fits = () => {
+  document.querySelectorAll('.mast').forEach((m) => fitText(m, innerWidth >= 900 ? 0.8 : 1));
+  document.querySelectorAll('.foot .big').forEach((m) => fitText(m, 1));
+  document.querySelectorAll('.insegna__t').forEach((m) => fitText(m, 0.74));
+};
+fits();
+(document.fonts && document.fonts.ready ? document.fonts.ready : Promise.resolve()).then(fits);
+addEventListener('resize', fits);
+
 /* ---------- copertina: insegna che si monta + luce + 3D ---------- */
 const mast = document.querySelector('.mast');
 if (mast) {
